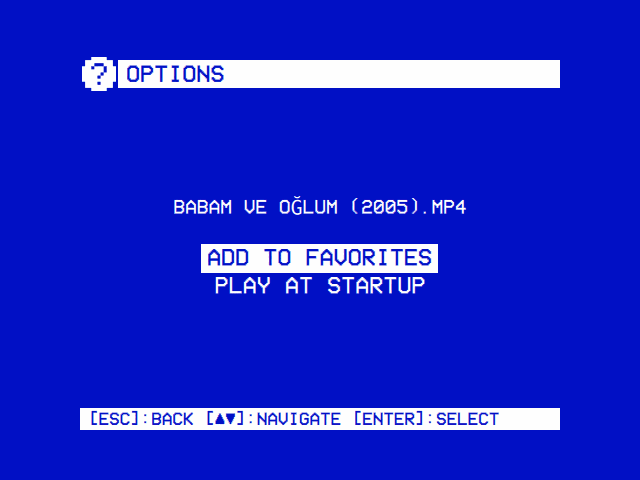
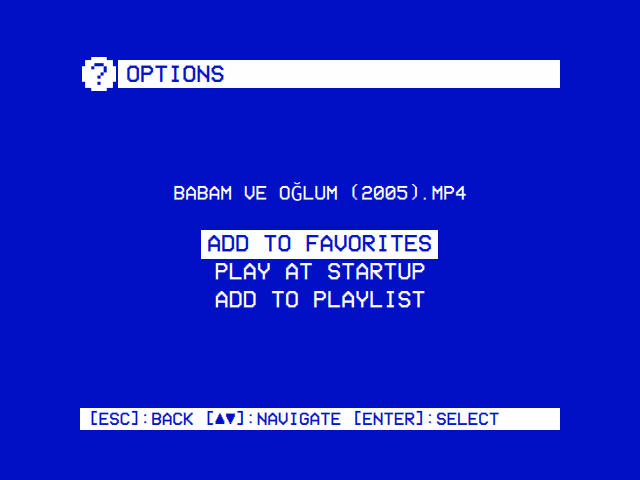
docs: Playlists in the README and ARCHITECTURE
- README: Playlists among the modules and highlights, a tour section
  (the playlists, an offline playlist's downloads, adding videos, Add
  to Playlist), the module's own section, and the options screenshot
  retaken with Add to Playlist.
- ARCHITECTURE: how Playlists works (keys, storage, downloads and their
  sharing, the m3u, resume and the session behind the menus, adding,
  what another module needs to join), PlaylistAdder, PromptScreen's
  maxChoices and MenuRow's keepValue.

Claude-Session: https://claude.ai/code/session_01BPj7F5bUAW2FbHbUrDiQbs

Changed region(s): [[0.25, 0.375, 0.75, 0.6562]]

diff --git a/ARCHITECTURE.md b/ARCHITECTURE.md
@@ -28,6 +28,8 @@ The guiding idea: **browse structured content, then hand off to the right tool f
         LocalFilesBackend.h/.cpp
       plex/
         PlexBackend.h/.cpp          # good reference backend implementation
+      playlists/
+        PlaylistsBackend.h/.cpp     # lists across modules, their m3u, offline downloads (see Playlists)
       ...
     player/
       MpvController.h/.cpp          # mpv subprocess controller: QProcess launch + IPC socket
@@ -52,7 +54,7 @@ The guiding idea: **browse structured content, then hand off to the right tool f
     ModuleList.qml
     Settings.qml
     ...
-    Components/                     # shared QML components (AppBar, HintBar, MenuRow, HelpLine, ScrollMarks, TreeBrowser, InfoPanel, EntryOptions, PlayerMenu, LoadingScreen, PromptScreen, MousePointer, OnScreenKeyboard, WebPlayerBrowse, WebPlayerLaunch, the Osd* elements, ChoiceOverlay, qmldir)
+    Components/                     # shared QML components (AppBar, HintBar, MenuRow, HelpLine, ScrollMarks, TreeBrowser, InfoPanel, EntryOptions, PlaylistAdder, PlayerMenu, LoadingScreen, PromptScreen, MousePointer, OnScreenKeyboard, WebPlayerBrowse, WebPlayerLaunch, the Osd* elements, ChoiceOverlay, qmldir)
     BootScreen.qml                  # boot screen of the 240-MP OS image (see os/README.md)
   Main.qml                          # app root
   CMakeLists.txt
@@ -363,6 +365,22 @@ An NFC card's tag file can point at content another module owns, rather than at 
 - **Collections and playlists are the exception to the guid rule.** They are server-local, user-created objects with no metadata-agent guid to be portable with, so their cards carry the ratingKey (`plex://collection/<ratingKey>`) and `resolve_card_queue` fetches `/library/collections/<key>/items` or `/playlists/<key>/items` in one request. Such a card breaks only if the set is deleted and recreated. The rows go through `formatItem` + `flattenSeasons` exactly as the in-app loaders do, so `expand_queue` fans shows out identically either way.
 - Shuffle keeps rolling via a **shuffle bag** in `PlexBackend` (`m_shuffleBag`): a shuffled permutation played to exhaustion then reshuffled, rather than independent random draws, which clump badly over the hours a jukebox card runs. `resolve_card` reports the show/season as `cardScope`; the Player's EOF branch calls `load_random_episode(scope)` instead of `load_next_episode(ratingKey)`. Both emit `nextEpisodeReady`, so the advance itself is shared. Continuation respects the module's `autoplay_next_episode` setting.
 
+## Playlists (videos from several modules)
+
+The Playlists module (`modules/playlists`, `PlaylistsBackend`) keeps lists of videos that other modules own, and plays a list as one. It is the one module that reaches into others: `main.cpp` hands its backend Local Files', YouTube's, Jellyfin's and Emby's.
+
+**Two kinds.** An **online** playlist plays each video from where it lives: a Local Files path, a YouTube watch URL that mpv's ytdl hook opens with the YouTube module's ways (`YouTubeBackend::playbackArgs`, its ADVANCED settings, yt-dlp's path), a Jellyfin or Emby stream (`/Videos/{id}/stream?static=true`, the token in the query, so in a list mixing sources it goes to that server and nowhere else). An **offline** playlist plays only what is on the device: Local Files' files as they are, and for everything else a copy, downloaded once.
+
+**Storage.** `<data>/playlists.json`: the playlists (`id`, `name`, `kind`, `order`, `items`, and `resume`, where it stopped) and `downloads`, by key. An item's **key** names the video whatever list it is on: `local:<path>`, `youtube:<videoId>`, `jellyfin:<itemId>`, `emby:<itemId>`. `addEntry(playlistId, moduleId, entry)` turns an entry as its module has it (a tree's entry, a server's item) into an item (`itemFor`), and refuses a second of the same key on a list.
+
+**Downloads.** Every offline list's videos share one copy per key, in the download folder (the module's `download_folder` setting, else a `Playlists` folder in Local Files' media folder: on 240-MP OS, the card's 240-MP partition, mounted writable for it), under `YouTube/`, `Jellyfin/`, `Emby/`. One runs at a time: queued as a video goes on an offline list, and 15 s after start for any still missing. `enqueue()` never queues a key already downloaded, so a video on several lists is fetched once; `dropUnreferenced()` deletes a copy as soon as no offline list has it (an item removed, a list deleted). YouTube's run yt-dlp (`YouTubeBackend::downloadArgs`: the module's format and the account's cookies; `--merge-output-format mp4` with ffmpeg, the best progressive file without; `--windows-filenames` for exFAT; `--print after_move:filepath` names the file). Jellyfin's and Emby's fetch `/Items/{id}/Download`, the original file, which a server allows a user or not: 401/403 is `not allowed`, kept until **Retry Downloads**. A finished file is `fsync`ed, with its folder, before it counts as done. A download that fails says why (the page's help line), and an unwritable folder fails it at once, naming the folder (a card from before the partition was writable).
+
+**Playing.** `prepare(playlistId, fromItemId)` writes what plays into an m3u in `<data>/playlists/`, a new file each time (owner-only: it may hold a token) and the last one only, in the order it plays: a shuffled list is shuffled there rather than by mpv, so a place in the m3u always names a video (`savePosition` keeps the item, not the place), and **Play from Here** puts that video first. What can't play (a file gone, a server signed out of, a download not done) is left out. The player hands the m3u to `loadAndPlay` with its own SUBTITLES and LOOP PLAYBACK; an in-order list asks to resume where it stopped, and forgets that once it has played out (`eof`). It notes its session (`noteSession`, `menu: true`) with everything it was started with, so chosen again from the main menu while it plays behind the menus it starts the same way and MpvController carries it on; a list played afresh has a new m3u, so it never passes for the one behind.
+
+**Adding videos.** From inside the module, ADD VIDEOS is a `TreeBrowser` over the sources: Local Files (its lists and folders), YouTube (its lists, home and SEARCH, from `youtubeBackend.listing()`), Jellyfin and Emby (`serverListing(moduleId, parentId)`: the backend's own requests through each backend's `browseRequest()`, so it never shares their views' signals). From the modules, a `PlaylistAdder`: EntryOptions' ADD TO PLAYLIST, and Right on PLAY on Jellyfin's and Emby's item pages.
+
+**Another module** joins with a key prefix (`keyPrefix`), its entry's id and title (`itemFor`), what plays (`playableUrl`) and, to go on offline lists, a download (`startNext`). Netflix and Prime Video can't: they play in the service's own player.
+
 ## Input (InputManager)
 
 All input arrives in QML as **ordinary key events** — views bind `Keys.onPressed` / `Keys.onUpPressed` / etc. and never know which physical device produced the event. Keyboards and keyboard-emulating USB remotes deliver real key events natively; **USB game controllers** are translated by `InputManager` (`src/input/InputManager.h/.cpp`, exposed to QML as the context property **`inputManager`**).
@@ -629,6 +647,7 @@ A question or a notice, full screen, in the window every view has: the question 
 | `message` | `string` | Under the bar: what it is about (the video, the device), or a notice's details. Wraps |
 | `choices` | `var` | The answers: labels, or maps with a `label` (`{ label, action }`) |
 | `currentIndex` | `int` | The answer under the cursor |
+| `maxChoices` | `int` | More answers than this (5) show a window of them that follows the cursor, with ▲ / ▼ while some are hidden above or below it (`PlaylistAdder`'s playlists) |
 | `hint` | `string` | The hint line |
 
 It only draws: the host keeps its keys, its cursor and its visibility, so a dialog becomes one by swapping its drawing for it. Items declared inside it go between the message and the answers, centring themselves across its width (the pairing code in `BluetoothPrompt`). Every question and notice in the app is one: the players' resume prompts and error screens, Settings' quit, the update's install, the script's run, a new button for Controls, Bluetooth pairing, and `ChoiceOverlay` (so `EntryOptions` and the Plex PLAY chooser) too.
@@ -646,7 +665,7 @@ Pixel-drawn pieces of a deck's on-screen menu, built on `root.px` (one pixel of 
 | Component | What it draws |
 |---|---|
 | `HintBar` | The footer hint line on a solid bar. It is a `Text`, so a view sets `text` and anchors exactly as on one. It owns its font size, steps it down only as far as a long hint needs to fit the safe width. Every view's footer and every dialog's hint line uses it, always in the same place: anchored to the bottom, `bottomMargin: root.sh * 0.1041667`, `leftMargin: root.sw * 0.125`, never under a dialog's last line (a `PromptScreen` does this for a dialog). |
-| `MenuRow` | A settings line the way a camcorder's menu lays one out, `DISPLAY······ON`: `label`, a dot per character cell, then `value` against the line's right end (none for a submenu), with `selected` as a solid bar. With `heading` it heads a group instead: the label and a rule to the line's end (`MODULES ─────`). Settings, every module's settings and Controls use it. |
+| `MenuRow` | A settings line the way a camcorder's menu lays one out, `DISPLAY······ON`: `label`, a dot per character cell, then `value` against the line's right end (none for a submenu), with `selected` as a solid bar. With `heading` it heads a group instead: the label and a rule to the line's end (`MODULES ─────`). A value too long for the line is cut short; with `keepValue` the label is instead, two dots before a value that always shows whole (a playlist's videos, `TEEN TITANS GO!… ··READY`). Settings, every module's settings, Controls and the Playlists module use it. |
 | `ScrollMarks` | The ▲ above a list while lines are hidden above it and the ▼ below while lines are hidden below. Laid over a list (`anchors.fill` and `list`); the main menu and the settings menus use it. |
 | `HelpLine` | The help line under a settings menu: the focused line's description in an outlined box, on one line. A description too long for the box scrolls through it like a ticker; one written as several lines reads as one, joined with `•`. |
 | `Dither` | A checkerboard of background-colour art pixels laid over an area: the two-colour way to dim it. |
@@ -706,7 +725,11 @@ Call `open()` to show it. It emits `activated(action)` when the user picks one a
 
 ### EntryOptions (`views/Components/EntryOptions.qml`)
 
-An entry's options, as a `ChoiceOverlay`: **Add to Favorites** or **Remove from Favorites** (the module's `favorites` list, `moduleId`), **Play at Startup** or **Don't Play at Startup** (see above), then whatever the host adds in `moreChoices` and acts on in its own `onActivated` (YouTube's **Save to Watch Later**). A tree view opens it with `offer(entry)` on Right on an entry (`optionsRequested`, from the tree or its `InfoPanel`), and refreshes its FAVORITES folder on `favoritesEdited()`.
+An entry's options, as a `ChoiceOverlay`: **Add to Favorites** or **Remove from Favorites** (the module's `favorites` list, `moduleId`), **Play at Startup** or **Don't Play at Startup** (see above), **Add to Playlist** where the Playlists module takes the module's videos (a `PlaylistAdder` of its own, over the host's view: the options are closed by the time it opens, and it emits their `closed()` again as it closes, so the host's focus restore runs then too), then whatever the host adds in `moreChoices` and acts on in its own `onActivated` (YouTube's **Save to Watch Later**). A tree view opens it with `offer(entry)` on Right on an entry (`optionsRequested`, from the tree or its `InfoPanel`), and refreshes its FAVORITES folder on `favoritesEdited()`.
+
+### PlaylistAdder (`views/Components/PlaylistAdder.qml`)
+
+Putting a video on one of the app's playlists, as a `PromptScreen`: **Add to playlist?**, the video under it, then every playlist that takes the module's videos (an offline one marked so), **New Online Playlist** and **New Offline Playlist** (named on its own `OnScreenKeyboard`). What became of the video (added, already on it, can't go on one) shows in the same window as a notice, until Back or Select closes it (`closed()`). `available(moduleId)` says whether to offer it at all (the Playlists module on, and taking the module's videos); `offer(moduleId, entry)` opens it, the entry being the video as its module has it (see [Playlists](#playlists-videos-from-several-modules)). A window over its host, its keys stop there (Ctrl+Q aside). `EntryOptions` carries one; Jellyfin's and Emby's item pages open theirs with Right on PLAY.
 
 ### PlayerMenu (`views/Components/PlayerMenu.qml`)
 

diff --git a/README.md b/README.md
@@ -4,7 +4,7 @@
 
 240-MP is a retro VCR style frontend to play content on [Raspberry Pi](https://github.com/anthonycaccese/240-MP/wiki/Hardware-Testing) (preferably hooked up to a CRT TV), Steam OS (and other Linux x86_64 distros) or MacOS (ARM). Every screen is drawn like a VCR's on-screen display, in two colours and large type, with menus laid out like a camcorder's. Everything works with the arrows, select and back, on a remote, a keyboard or a gamepad.
 
-Playback experiences are handled via modules to enable new integrations without requiring major changes to the overall frontend. Try to think of each module as a different input on a VHS deck. There are 11 included modules currently: [Local Files](https://github.com/anthonycaccese/240-MP/wiki/Module:-Local-Files), [Plex](https://github.com/anthonycaccese/240-MP/wiki/Module:-Plex), [Jellyfin](https://github.com/anthonycaccese/240-MP/wiki/Module:-Jellyfin), Emby, Netflix, Prime Video, [YouTube](https://github.com/anthonycaccese/240-MP/wiki/Module:-YouTube), [NFC Reader](https://github.com/anthonycaccese/240-MP/wiki/Module:-NFC-Reader), [Weather](https://github.com/anthonycaccese/240-MP/wiki/Module:-Weather), [Scripts](https://github.com/anthonycaccese/240-MP/wiki/Module:-Scripts) and a module similar to art/wallpaper modes on modern tvs called [Ambient:Mode](https://github.com/anthonycaccese/240-MP/wiki/Module:-Ambient-Mode).
+Playback experiences are handled via modules to enable new integrations without requiring major changes to the overall frontend. Try to think of each module as a different input on a VHS deck. There are 12 included modules currently: [Local Files](https://github.com/anthonycaccese/240-MP/wiki/Module:-Local-Files), [Plex](https://github.com/anthonycaccese/240-MP/wiki/Module:-Plex), [Jellyfin](https://github.com/anthonycaccese/240-MP/wiki/Module:-Jellyfin), Emby, Netflix, Prime Video, [YouTube](https://github.com/anthonycaccese/240-MP/wiki/Module:-YouTube), Playlists, [NFC Reader](https://github.com/anthonycaccese/240-MP/wiki/Module:-NFC-Reader), [Weather](https://github.com/anthonycaccese/240-MP/wiki/Module:-Weather), [Scripts](https://github.com/anthonycaccese/240-MP/wiki/Module:-Scripts) and a module similar to art/wallpaper modes on modern tvs called [Ambient:Mode](https://github.com/anthonycaccese/240-MP/wiki/Module:-Ambient-Mode).
 
 It's built to work in conjunction with [MPV](https://github.com/anthonycaccese/240-MP/wiki/MPV) which will be installed (or updated) as a dependency during the [install](#install) steps.  Some modules (like YouTube and NFC Reader) have additional dependencies which are covered on their associated wiki pages under the "To Enable" sections.
 
@@ -15,7 +15,8 @@ On a Raspberry Pi, 240-MP can also be the whole system. The **240-MP OS** image 
 - **One way to browse.** Local Files, Netflix, Prime Video and YouTube open as a horizontal tree. The folders you open run along a line across the screen, and every folder branches out to a few of its entries. Each starts with **Recently Watched**, **Favorites** and **Search**.
 - **Search with the remote**, typed on an on-screen keyboard.
 - **Info screens** for films and videos: the story, genre, director, cast and rating. One comes up when the cursor rests on a title (3 seconds by default), or straight away with ►.
-- **Options** on any entry, with ►: add it to **Favorites**, or have it **Play at Startup**, straight after the boot screen, where it was stopped or from the beginning (Settings → Startup From), without asking.
+- **Options** on any entry, with ►: add it to **Favorites**, have it **Play at Startup**, straight after the boot screen, where it was stopped or from the beginning (Settings → Startup From), without asking, or **Add to Playlist**.
+- **Playlists** from several modules at once: Local Files, YouTube, Jellyfin and Emby videos on one list, played in order (on from where it stopped) or shuffled. An **online** playlist plays each video from where it lives. An **offline** one downloads every video to the device once, whatever lists it is on (on 240-MP OS, into the card's 240-MP partition), and plays without the network.
 - **Transparent Background.** Back from a video returns to the menus while the video keeps playing behind them, like a deck's menu over the tape, and the first row of the main menu takes it back to full screen. A Local Files or YouTube video first opens a menu of its own over the picture: its module's settings for it, Favorites, Browse, and Close Video. A slider from TRANSPARENT to SOLID sets how much of it shows through: at SOLID none, while it plays on, sound and all. Select on the setting turns it off. It needs libmpv (`libmpv2` on Raspberry Pi OS, part of Homebrew's mpv on macOS).
 - **Bluetooth** in Settings: search for a keyboard, gamepad or remote and pair it from the couch. A keyboard's pairing code comes up on screen, to type on it.
 - **A mouse pointer** (a mouse, or a keyboard's touchpad) that shows while the mouse moves and hides again after 5 seconds (Settings → Mouse Pointer).
@@ -84,7 +85,7 @@ Every screen below is the app itself, running at 640×480. The film and YouTube 
 <table>
 <tr><th width="50%">Search results</th><th width="50%">Options</th></tr>
 <tr><td><img src="docs/screenshots/search-results.png" width="100%" alt="Search results" /></td><td><img src="docs/screenshots/options.png" width="100%" alt="Options" /></td></tr>
-<tr><td>Names that match anywhere under the media folder.</td><td>► on any entry: Add to Favorites (or Remove), and Play at Startup.</td></tr>
+<tr><td>Names that match anywhere under the media folder.</td><td>► on any entry: Add to Favorites (or Remove), Play at Startup, and Add to Playlist.</td></tr>
 </table>
 
 ### Playing
@@ -136,6 +137,20 @@ Every screen below is the app itself, running at 640×480. The film and YouTube 
 </table>
 
 Once signed in, each opens on the server's Continue Watching and its libraries. See [Modules](#modules) for everything they do.
+
+### Playlists
+
+<table>
+<tr><th width="50%">Playlists</th><th width="50%">An offline playlist</th></tr>
+<tr><td><img src="docs/screenshots/playlists.png" width="100%" alt="Playlists" /></td><td><img src="docs/screenshots/playlist.png" width="100%" alt="An offline playlist" /></td></tr>
+<tr><td>Online playlists play each video from where it lives; offline ones, from the device, with how many of their videos are on it.</td><td>Each video downloads once, in the background: ready, under way, or why not (a server that doesn't let you download it).</td></tr>
+</table>
+
+<table>
+<tr><th width="50%">Adding videos</th><th width="50%">Add to Playlist</th></tr>
+<tr><td><img src="docs/screenshots/playlist-add.png" width="100%" alt="Adding videos" /></td><td><img src="docs/screenshots/add-to-playlist.png" width="100%" alt="Add to Playlist" /></td></tr>
+<tr><td>Local Files, YouTube, Jellyfin and Emby in one tree, down to a show's episodes. Select adds a video and stays, for the next.</td><td>From a module itself: a video's options (►), or ► on PLAY in Jellyfin and Emby.</td></tr>
+</table>
 
 ### Weather, Ambient:Mode, NFC Reader and Scripts
 
@@ -266,6 +281,15 @@ Photos of an earlier version, before the menus above, on a CRT.
 - Readers are detected automatically; no configuration needed
 - Maps cards to videos via per-card text files in a `nfc_tags` data directory
 - Tapping an unknown card auto-creates a stub tag file for it
+
+### Playlists
+- Lists of videos from Local Files, YouTube, Jellyfin and Emby together, played as one: **In Order**, carrying on from where the list stopped (it asks), or **Shuffle**, in a new order each time. **Play from Here** on a video starts there. mpv's display has ◄ ► for the previous and next video
+- **Online** playlists play each video from where it lives: a file from Local Files, a YouTube video as the YouTube module plays it (its Advanced settings, through yt-dlp), a Jellyfin or Emby item streamed from its server
+- **Offline** playlists play only what is on the device: Local Files' files as they are, and a copy of every other video, downloaded in the background into a **Playlists** folder in Local Files' folder (the **Download Folder** setting can name another). On 240-MP OS that is the card's 240-MP partition. A video is downloaded once, whatever lists it is on, and deleted once no offline list has it
+- YouTube videos download with yt-dlp in the YouTube module's resolution, codec and audio language (ffmpeg puts a video above 360p back together; the 240-MP OS image has it). Jellyfin and Emby items download as their original file, where the server lets the user download (a user without the right shows **Not Allowed**)
+- Add videos from inside the module (**Add Videos**: a tree of Local Files, YouTube, Jellyfin and Emby, with their libraries, shows and seasons), from a video's options in Local Files and YouTube (►, **Add to Playlist**), or with ► on **PLAY** on a Jellyfin or Emby item's page. A list can also be started from there (**New Online Playlist**, **New Offline Playlist**)
+- Back during a video opens its menu: subtitles, looping and Scaling, then Browse Playlists and Close Video. With Transparent Background, the list plays on behind the menus and the main menu's first row takes it back
+- Netflix and Prime Video play in the service's own player, so they can't go on a playlist
 
 ### Plex ([Wiki](https://github.com/anthonycaccese/240-MP/wiki/Module:-Plex))
 - Supported library types: `Movies, TV Shows, Other Videos`
